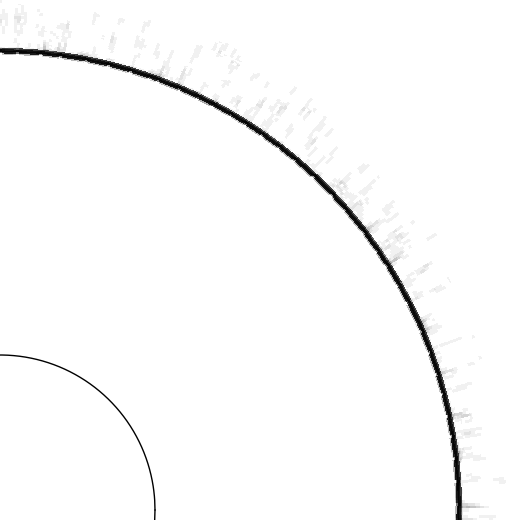
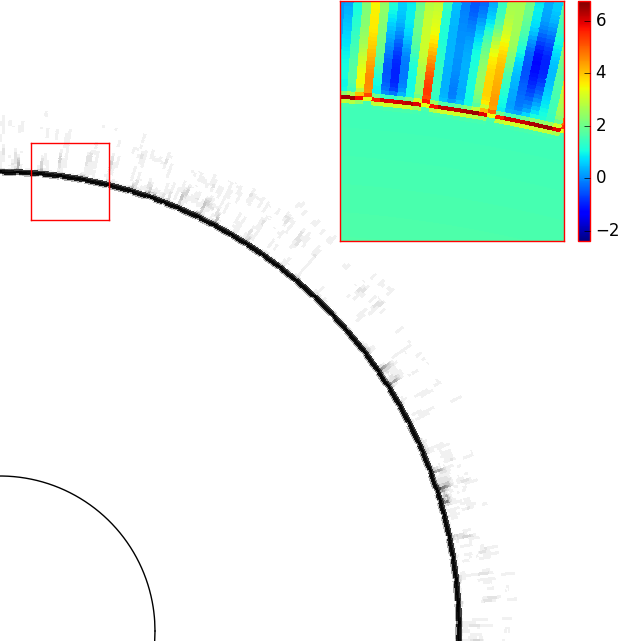
Different changes discussed on Feb 17

diff --git a/numerics_paper/version2/numerical_chj.tex b/numerics_paper/version2/numerical_chj.tex
@@ -1093,7 +1093,6 @@ where the subscripts $+, -$ denote states just inside or outside the jump radius
 
 A steady-state, rotationally symmetric solution can be given for an annular region with prescribed
 flow at the inner and outer boundaries as follows:
-
 \begin{enumerate}
     \item Specify the depth and velocity at the inner boundary (near the jet) and outer boundary.
     \item Integrate \eqref{eq:dh} from both boundaries.
@@ -1103,24 +1102,13 @@ Due to the nature of solutions of \eqref{eq:dh}, it can be shown that the requir
 radius $r_0$ always exists if the prescribed flow is supercritical at the inner boundary
 and subcritical at the outer boundary.
 
-Numerical tests suggest that the solution of \eqref{eq:rsw} rapidly approaches that
-just described under general initial conditions as long as the inflow at the jet is
-supercritical and the outflow at $r_\infty$ is subcritical.  Subcritical outflow
-can be enforced by an appropriate outer boundary condition.  This solution remains steady
-if the rate of inflow and outflow are matched.  The stability of this solution in
-the face of non-rotationally-symmetric perturbations is an important question not
-only in the shallow water context but for more realistic fluid models and physically.
-It will play an important role in the results we present below.
-The rotationally-symmetric steady state is a useful initial condition for studies
-of CHJ stability.
 
-
-\subsection{The circular hydraulic jump in two dimensions}\label{sec:2D_chj}
-Let us finally consider the numerical experiments for the CHJ in two dimensions.
-The domain is again given by the annulus \eqref{eq:annulus}, but now we solve
-the fully 2D shallow water equations \eqref{eq:sw}.  For all of the following
-experiments, we use a mesh with 1000 cells in each (radial and angular) direction.
-The boundary conditions at the jet and the outer boundary are given by
+In this section we described how the location of the jump for a steady, rotationally-symmetric CHJ
+is determined by the boundary conditions. Following similar steps, one can choose inner boundary conditions
+and find outflow boundary conditions that lead to a CHJ at a prescribed location.
+This a convenient approach to construct initial conditions for numerical experiments at different flow regimes. 
+Let us consider two flow regimes and construct the corresponding CHJs, which we use in the following sections.
+Consider the following boundary conditions:
 \begin{subequations}\label{bcs_chj}
   \begin{align}
   h(x,y,t)=h_\jet, \quad
@@ -1133,11 +1121,54 @@ The boundary conditions at the jet and the outer boundary are given by
   \end{align}
 \end{subequations}
 where $h_\jet=0.3$, $r_\jet=0.1$, $r_\out=1$ and $\beta=r_\jet h_\jet|\bfu_\jet|$.
-We choose $|\bfu_\jet|$ and $h_\out$ such that the steady roationally symmetric
-solution involves a symmetric shock at $r_s=0.3$, as described
-in \S \ref{sec:steady_chj}.
+We choose $|\bfu_\jet|$ and $h_\out$ such that the steady roationally-symmetric
+solution involves a symmetric shock at $r_s=0.3$; see Table \ref{table:regimes}.
+In Figure \ref{fig:regimes}, we show the water depth $h$ along $y=0$ for these regimes.
+
+\begin{table}[!ht]
+  \begin{center}
+    \begin{tabular}{||c||c|c|c||} \hline
+      & $F(r_\jet)$ &  $|\bfu_\jet|$ & $h_\out$ \\ \hline
+      Regime I & 1.37 & 0.75 & 0.37387387318873766 \\ \hline
+      Regime II & 27.39 & 15 & 6.6845019298155357 \\ \hline
+    \end{tabular}
+    \caption{Boundary data $|u_\jet|$ and $h_\out$ which along with \eqref{bcs_chj}
+      produce CHJs located at $r_s=0.3$ for two different flow regimes. \label{table:regimes}}
+  \end{center}
+\end{table}
+
+\begin{figure}[!h]
+  \centering
+  \subfloat[$F(r_\jet)\approx 1.37$\label{fig:ic_regime_I}]{\includegraphics[scale=0.3]{figures/chj_r1_init.png}} \qquad
+  \subfloat[$F(r_\jet)\approx 27.39$\label{fig:ic_regime_II}]{\includegraphics[scale=0.3]{figures/chj_r2_init.png}}
+  \caption{Radially symmetric CHJs created by solving \eqref{steady} with a jump given by \eqref{eq:RH}.
+    We show a slice along $y=0$.
+    In Section \ref{sec:regime_i}, we consider the CHJ in (a) as initial condition;
+    and in Sections \ref{sec:regime_ii} and \ref{sec:regime_iiwp},
+    we consider the CHJ in (b) as initial condition. 
+    \label{fig:regimes}}
+\end{figure}
+
+Numerical tests suggest that the solution of \eqref{eq:rsw} rapidly approaches that
+just described under general initial conditions as long as the inflow at the jet is
+supercritical and the outflow at $r_\infty$ is subcritical.  Subcritical outflow
+can be enforced by an appropriate outer boundary condition.  This solution remains steady
+if the rate of inflow and outflow are matched.  The stability of this solution in
+the face of non-rotationally-symmetric perturbations is an important question not
+only in the shallow water context but for more realistic fluid models and physically.
+It will play an important role in the results we present below.
+The rotationally-symmetric steady state is a useful initial condition for studies
+of CHJ stability.
+
+\subsection{The circular hydraulic jump in two dimensions}\label{sec:2D_chj}
+Let us finally consider the numerical experiments for the CHJ in two dimensions.
+The domain is again given by the annulus \eqref{eq:annulus}, but now we solve
+the fully 2D shallow water equations \eqref{eq:sw}.  For all of the following
+experiments, we use a mesh with 1000 cells in each (radial and angular) direction.
+The boundary conditions at the jet and the outer boundary are given by \eqref{bcs_chj}.
 By adjusting the boundary conditions $|\bfu_\jet|$ and $h_\out$ we can study different flow regimes.
-We focus on two cases.
+We focus on the two cases in Table \ref{table:regimes}.
+%
 %For the first case, the Froude number at the inflow boundary is $\Fr\approx 1.3693$.
 %In this case, the CHJ appears to be nearly stable.
 %However, using Roe's solver leads to the formation of carbuncle instabilities.
@@ -1150,17 +1181,16 @@ We focus on two cases.
 %Therefore, the numerical method must introduce a carbuncle fix without dissipating important features of the
 %solution that could lead to physical instabilities. 
 %For this reason, we believe this problem is more challenging than the standard bow shock problem.
-
+%
 For most of the experiments we show a Schlieren plot for the water height.
 That is, we plot $||\nabla h||_{\ell^2}$ with a greyscale logarithmic colormap.
 
-\subsubsection{Regime I ($F_\jet\approx1.37$)}
+\subsubsection{Regime I ($F_\jet\approx1.37$)}\label{sec:regime_i}
 In this case, the boundary conditions are given by \eqref{bcs_chj} with
 \begin{align}\label{bcs_chj_r1}
   |\bfu_\jet|=0.75, \qquad h_\out=0.37387387318873766. 
 \end{align}
-The initial condition is again a circular hydraulic jump located at $r=0.3$,
-generated as described in \S \ref{sec:jumploc}.
+The initial condition is a circular hydraulic jump located at $r_s=0.3$; see Figure \ref{fig:ic_regime_I}. 
 In Figure \ref{fig:chj_r1_roe}, we show the solution at different times using
 method \eqref{second-order_via_fluct} with Roe's Riemann solver.
 The solution clearly develops carbuncle instabilities, which are evident in the inset figure.
@@ -1182,13 +1212,19 @@ all of which are free from carbuncles.
     \end{tabular}
   }
   
-  \subfloat[Solution at $t=3$ using (left) Rusanov's, (middle) HLLEMCC and (right) the blended solvers.\label{fig:chj_r1_diff}]{
-    \begin{tabular}{ccc}
-      \includegraphics[scale=0.3]{figures/chj_r1_llf_p3.png} &
-      \includegraphics[scale=0.3]{figures/chj_r1_hllemcc_p3.png} &
-      \includegraphics[scale=0.3]{figures/chj_r1_blended_p3.png}
-    \end{tabular}
-    }
+  \subfloat[Solution at $t=3$ using (left) Rusanov's,
+    (upper-right) HLLEMCC and (bottom-right) the blended solvers.\label{fig:chj_r1_diff}]{
+    \includegraphics[scale=0.3]{figures/chj_r1_quadrants.png}
+    %\begin{tabular}{ccc}
+    %  \includegraphics[scale=0.3]{figures/chj_r1_llf_p3.png} &
+    %  \includegraphics[scale=0.3]{figures/chj_r1_hllemcc_p3.png} &
+    %  \includegraphics[scale=0.3]{figures/chj_r1_blended_p3.png}
+    %\end{tabular}
+  }
+  \qquad\qquad
+  \subfloat[Solution at $t=3$ along $y=0$ using the same solvers as in (b).]{
+    \includegraphics[scale=0.3]{figures/chj_r1_slices.png}}
+  
     \caption{Simulation of a CHJ with boundary conditions given by \eqref{bcs_chj} and \eqref{bcs_chj_r1}.    
       We consider method \eqref{second-order_via_fluct} with different Riemann solvers.
       In all cases we show the Schlieren plot for the water height $h$.
@@ -1197,14 +1233,14 @@ all of which are free from carbuncles.
     \label{fig:chj_r1}}
 \end{figure}
 
-\subsubsection{Regime II ($F_\jet\approx27.39$)}
+\subsubsection{Regime II ($F_\jet\approx27.39$)}\label{sec:regime_ii}
 We now consider a higher-Froude number regime. The boundary conditions are
 given by \eqref{bcs_chj} with 
 \begin{align}\label{bcs_chj_r2}
   |\bfu_\jet|=15, \qquad h_\out=6.6845019298155357.
 \end{align}
-Again we follow \S \ref{sec:jumploc} to generate an initial condition with a circular jump located at
-$r=0.3$. In Figure \ref{fig:chj_r2_roe}, we show the solution at different times using method
+The initial condition is a circular hydraulic jump located at $r_s=0.3$; see Figure \ref{fig:ic_regime_II}.
+In Figure \ref{fig:chj_r2_roe}, we show the solution at different times using method
 \eqref{second-order_via_fluct} with Roe's Riemann solver. Again the solution develops
 carbuncle instabilities, which are clearly seen in the inset figure at $t=3$.
 For this regime, we obtained negative values for the water height with
@@ -1265,7 +1301,7 @@ more test.
     \label{fig:chj_r2_later}}
 \end{figure}
 
-\subsubsection{Regime II with random perturbations}
+\subsubsection{Regime II with random perturbations}\label{sec:regime_iiwp}
 Given the symmetry of the grid and initial data in the section above,
 the non-rotationally-symmetric perturbations seen when using the blended
 solver above must arise due to the influence of numerical errors.
